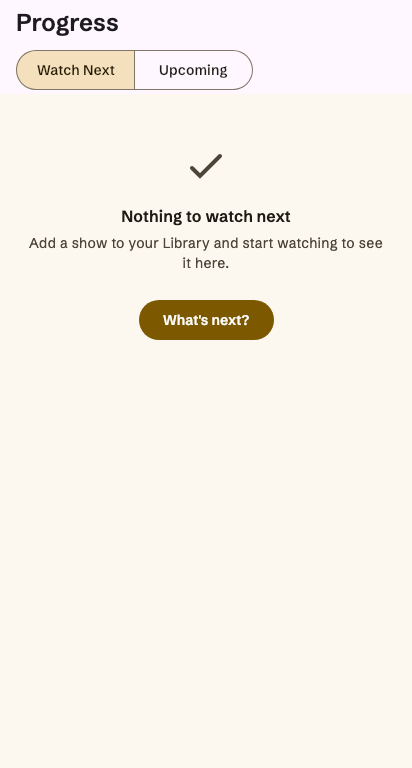
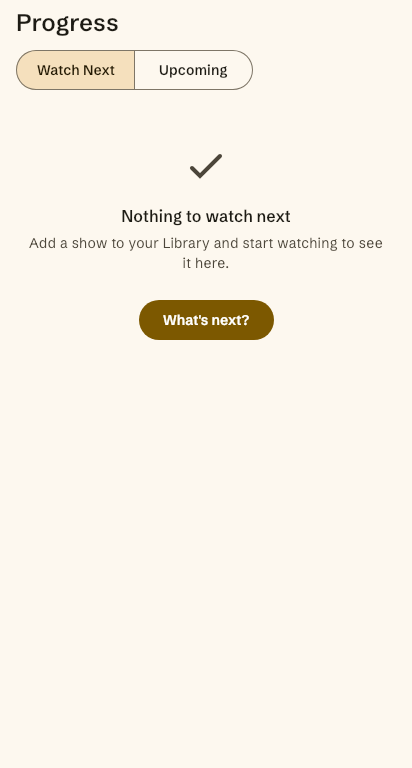
test(nextpick): theme the Next Pick goldens outside GoldenSurface, cover the question chip
The Discover, Detail and Progress "What's next?" goldens installed MuvissTheme inside
GoldenSurface, so the dark frame kept an unpainted background and the theme replaced
the pinned typography. The fixtures now split into a themeless content composable the
goldens frame with MuvissTheme outside GoldenSurface, and a themed wrapper the
behaviour tests keep using. The six affected goldens are re-recorded.

PickSessionScreenTest gains a test that answers a question chip and asserts the
session advances to the next step, covering the onAnswer wiring that Skip does not.

diff --git a/feature/search/ui/src/jvmTest/kotlin/com/codingpit/muviss/feature/search/ui/NextPickEntryTest.kt b/feature/search/ui/src/jvmTest/kotlin/com/codingpit/muviss/feature/search/ui/NextPickEntryTest.kt
@@ -105,9 +105,18 @@ class NextPickEntryTest {
     }
 }
 
-/** Shared with [NextPickEntryGoldenTest], which frames the same screens in both themes. */
+/** The behaviour tests' frame: the screen under its own theme. */
 @Composable
 internal fun DiscoverWithEntry(onOpenNextPick: (() -> Unit)?, darkTheme: Boolean = false) {
+    MuvissTheme(darkTheme = darkTheme) { DiscoverWithEntryContent(onOpenNextPick) }
+}
+
+/**
+ * The screen without a theme, for [NextPickEntryGoldenTest], which installs its own around `GoldenSurface`. A theme
+ * inside the frame would replace the pinned typography and leave the frame's background unpainted.
+ */
+@Composable
+internal fun DiscoverWithEntryContent(onOpenNextPick: (() -> Unit)?) {
     val repo = FakeRepo()
     val viewModel = SearchViewModel(
         SearchMediaUseCase(repo),
@@ -118,13 +127,18 @@ internal fun DiscoverWithEntry(onOpenNextPick: (() -> Unit)?, darkTheme: Boolean
         FakeTriageApi(),
         FakeMutingApi(),
     )
-    MuvissTheme(darkTheme = darkTheme) {
-        SearchScreen(viewModel = viewModel, onOpenDetail = {}, onOpenTriage = {}, onOpenNextPick = onOpenNextPick)
-    }
+    SearchScreen(viewModel = viewModel, onOpenDetail = {}, onOpenTriage = {}, onOpenNextPick = onOpenNextPick)
 }
 
+/** The behaviour tests' frame: the screen under its own theme. */
 @Composable
 internal fun DetailWithEntry(status: WatchStatus?, onOpenNextPick: (() -> Unit)?, darkTheme: Boolean = false) {
+    MuvissTheme(darkTheme = darkTheme) { DetailWithEntryContent(status, onOpenNextPick) }
+}
+
+/** The screen without a theme; see [DiscoverWithEntryContent]. */
+@Composable
+internal fun DetailWithEntryContent(status: WatchStatus?, onOpenNextPick: (() -> Unit)?) {
     val mediaId = MediaId.tmdbMovie("603")
     val repo = FakeDetailRepo(details = MediaDetails(MediaSummary(mediaId, "The Matrix", year = 1999)))
     val collection = FakeCollectionApi()
@@ -137,7 +151,5 @@ internal fun DetailWithEntry(status: WatchStatus?, onOpenNextPick: (() -> Unit)?
         MoreLikeThisUseCase(RecommendationsUseCase(repo), SimilarMediaUseCase(repo)),
         FakeClock(0L),
     )
-    MuvissTheme(darkTheme = darkTheme) {
-        DetailScreen(viewModel = viewModel, onBack = {}, onOpenDetail = {}, onOpenEpisode = {}, onOpenNextPick = onOpenNextPick)
-    }
+    DetailScreen(viewModel = viewModel, onBack = {}, onOpenDetail = {}, onOpenEpisode = {}, onOpenNextPick = onOpenNextPick)
 }

diff --git a/feature/search/ui/src/jvmTest/kotlin/com/codingpit/muviss/feature/search/ui/NextPickEntryGoldenTest.kt b/feature/search/ui/src/jvmTest/kotlin/com/codingpit/muviss/feature/search/ui/NextPickEntryGoldenTest.kt
@@ -3,6 +3,7 @@
 package com.codingpit.muviss.feature.search.ui
 
 import androidx.compose.ui.test.runComposeUiTest
+import com.codingpit.muviss.core.designsystem.theme.MuvissTheme
 import com.codingpit.muviss.core.testing.GoldenSurface
 import com.codingpit.muviss.core.testing.assertMatchesGolden
 import com.codingpit.muviss.models.WatchStatus
@@ -30,28 +31,28 @@ class NextPickEntryGoldenTest {
 
     @Test
     fun discover_with_what_s_next_light() = runComposeUiTest {
-        setContent { GoldenSurface { DiscoverWithEntry(onOpenNextPick = {}, darkTheme = false) } }
+        setContent { MuvissTheme(darkTheme = false) { GoldenSurface { DiscoverWithEntryContent(onOpenNextPick = {}) } } }
         waitForIdle()
         assertMatchesGolden("discover-what-s-next", tolerance = ENTRY_TOLERANCE)
     }
 
     @Test
     fun discover_with_what_s_next_dark() = runComposeUiTest {
-        setContent { GoldenSurface { DiscoverWithEntry(onOpenNextPick = {}, darkTheme = true) } }
+        setContent { MuvissTheme(darkTheme = true) { GoldenSurface { DiscoverWithEntryContent(onOpenNextPick = {}) } } }
         waitForIdle()
         assertMatchesGolden("discover-what-s-next-dark", tolerance = ENTRY_TOLERANCE)
     }
 
     @Test
     fun completed_detail_with_what_s_next_light() = runComposeUiTest {
-        setContent { GoldenSurface { DetailWithEntry(WatchStatus.WATCHED, onOpenNextPick = {}, darkTheme = false) } }
+        setContent { MuvissTheme(darkTheme = false) { GoldenSurface { DetailWithEntryContent(WatchStatus.WATCHED, onOpenNextPick = {}) } } }
         waitForIdle()
         assertMatchesGolden("detail-completed-what-s-next", tolerance = ENTRY_TOLERANCE)
     }
 
     @Test
     fun completed_detail_with_what_s_next_dark() = runComposeUiTest {
-        setContent { GoldenSurface { DetailWithEntry(WatchStatus.WATCHED, onOpenNextPick = {}, darkTheme = true) } }
+        setContent { MuvissTheme(darkTheme = true) { GoldenSurface { DetailWithEntryContent(WatchStatus.WATCHED, onOpenNextPick = {}) } } }
         waitForIdle()
         assertMatchesGolden("detail-completed-what-s-next-dark", tolerance = ENTRY_TOLERANCE)
     }

diff --git a/feature/progress/ui/src/jvmTest/kotlin/com/codingpit/muviss/feature/progress/ui/ProgressNextPickEntryTest.kt b/feature/progress/ui/src/jvmTest/kotlin/com/codingpit/muviss/feature/progress/ui/ProgressNextPickEntryTest.kt
@@ -102,9 +102,18 @@ class ProgressNextPickEntryTest {
     }
 }
 
-/** Shared with [ProgressNextPickEntryGoldenTest], which frames the same screen in both themes. */
+/** The behaviour tests' frame: the screen under its own theme. */
 @Composable
 internal fun ProgressWithEntry(onOpenNextPick: (() -> Unit)?, withTitle: Boolean = false, darkTheme: Boolean = false) {
+    MuvissTheme(darkTheme = darkTheme) { ProgressWithEntryContent(onOpenNextPick, withTitle) }
+}
+
+/**
+ * The screen without a theme, for [ProgressNextPickEntryGoldenTest], which installs its own around `GoldenSurface`. A
+ * theme inside the frame would replace the pinned typography and leave the frame's background unpainted.
+ */
+@Composable
+internal fun ProgressWithEntryContent(onOpenNextPick: (() -> Unit)?, withTitle: Boolean = false) {
     val show = MediaId.tmdbTv("1001")
     val progressRepository = FakeProgressRepository()
     val episodes = listOf(Season(1, "Season 1", (1..2).map { Episode(EpisodeId(show, 1, it), 1, it, "Episode $it", airDateEpochDay = 100L + it) }))
@@ -127,7 +136,5 @@ internal fun ProgressWithEntry(onOpenNextPick: (() -> Unit)?, withTitle: Boolean
     val upcomingCache = EpisodeCatalogCache(FetchEpisodeCatalogUseCase(FakeUpcomingCatalogSource(emptyMap())), InMemoryEpisodeCatalogStore())
     val upcomingViewModel = UpcomingViewModel(FakeUpcomingCollectionApi(emptyList()), upcomingCache, FakeClock(0L))
 
-    MuvissTheme(darkTheme = darkTheme) {
-        ProgressScreen(watchNextViewModel, upcomingViewModel, onOpenDetail = {}, onOpenCoWatch = null, onOpenNextPick = onOpenNextPick)
-    }
+    ProgressScreen(watchNextViewModel, upcomingViewModel, onOpenDetail = {}, onOpenCoWatch = null, onOpenNextPick = onOpenNextPick)
 }

diff --git a/feature/progress/ui/src/jvmTest/kotlin/com/codingpit/muviss/feature/progress/ui/ProgressNextPickEntryGoldenTest.kt b/feature/progress/ui/src/jvmTest/kotlin/com/codingpit/muviss/feature/progress/ui/ProgressNextPickEntryGoldenTest.kt
@@ -5,6 +5,7 @@ package com.codingpit.muviss.feature.progress.ui
 import androidx.compose.ui.test.ComposeUiTest
 import androidx.compose.ui.test.onAllNodesWithText
 import androidx.compose.ui.test.runComposeUiTest
+import com.codingpit.muviss.core.designsystem.theme.MuvissTheme
 import com.codingpit.muviss.core.testing.GoldenSurface
 import com.codingpit.muviss.core.testing.assertMatchesGolden
 import kotlinx.coroutines.Dispatchers
@@ -31,14 +32,14 @@ class ProgressNextPickEntryGoldenTest {
 
     @Test
     fun empty_watch_next_with_what_s_next_light() = runComposeUiTest {
-        setContent { GoldenSurface { ProgressWithEntry(onOpenNextPick = {}, darkTheme = false) } }
+        setContent { MuvissTheme(darkTheme = false) { GoldenSurface { ProgressWithEntryContent(onOpenNextPick = {}) } } }
         awaitEmptyWatchNext()
         assertMatchesGolden("progress-empty-what-s-next", tolerance = ENTRY_TOLERANCE)
     }
 
     @Test
     fun empty_watch_next_with_what_s_next_dark() = runComposeUiTest {
-        setContent { GoldenSurface { ProgressWithEntry(onOpenNextPick = {}, darkTheme = true) } }
+        setContent { MuvissTheme(darkTheme = true) { GoldenSurface { ProgressWithEntryContent(onOpenNextPick = {}) } } }
         awaitEmptyWatchNext()
         assertMatchesGolden("progress-empty-what-s-next-dark", tolerance = ENTRY_TOLERANCE)
     }

diff --git a/feature/nextpick/ui/src/jvmTest/kotlin/com/codingpit/muviss/feature/nextpick/ui/PickSessionScreenTest.kt b/feature/nextpick/ui/src/jvmTest/kotlin/com/codingpit/muviss/feature/nextpick/ui/PickSessionScreenTest.kt
@@ -62,6 +62,20 @@ class PickSessionScreenTest {
     }
 
     @Test
+    fun answering_a_question_chip_moves_to_the_next_step() = runComposeUiTest {
+        setContent { ScreenUnderTest(context = PickContext(length = SessionLength.STANDARD)) }
+        waitForIdle()
+        onNodeWithText("Where should it come from?").assertExists()
+
+        // "Either" leaves the two-candidate pool alone, so the step advance is the only thing this asserts.
+        onNodeWithText("Either").performClick()
+        waitForIdle()
+
+        onNodeWithText("Question 2 of 4").assertExists()
+        onNodeWithText("Where should it come from?").assertDoesNotExist()
+    }
+
+    @Test
     fun offline_the_question_says_only_the_list_is_searched() = runComposeUiTest {
         setContent { ScreenUnderTest(context = PickContext(length = SessionLength.STANDARD, online = false)) }
         waitForIdle()
